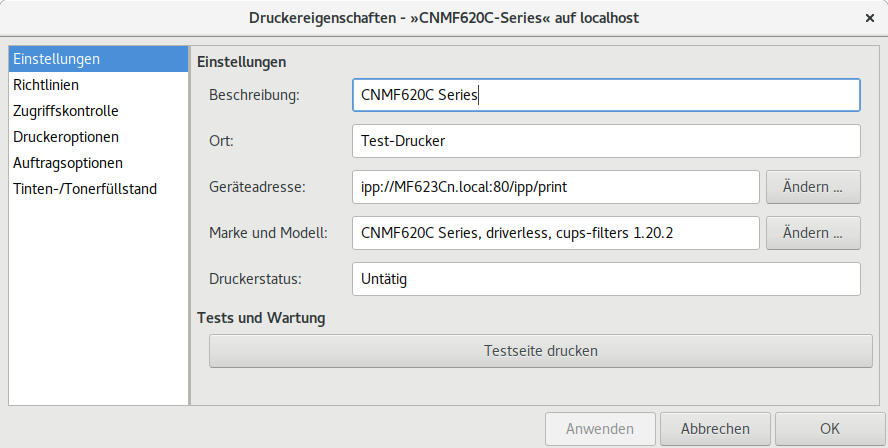
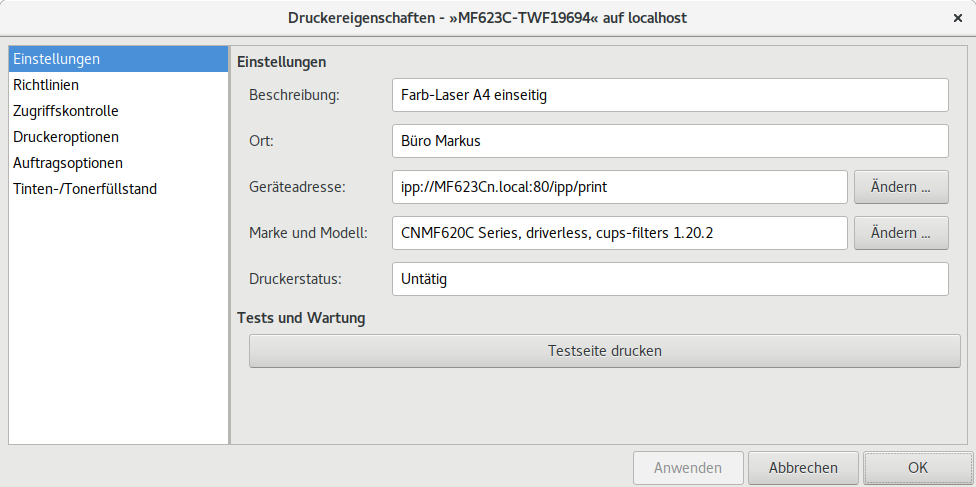
print: Korrektur gelesen (WIP)

Changed region(s): [[0.0, 0.0, 1.0, 0.9062], [0.6081, 0.875, 1.0, 1.0], [0.0, 0.875, 0.0304, 0.9062]]

diff --git a/docs/print/printer_setup.rst b/docs/print/printer_setup.rst
@@ -8,32 +8,34 @@
 Netzwerk-Drucker Setup
 ======================
 
-Im GNOME-Setup unter :guilabel:`Geräte/Drucker` kann man den Drucker einrichten,
-i.d.R. wird der Drucker im Netz gefunden, i.d.R: wählt GNOME (resp CUPS) die
-**driverless** PPA, bei mir (Ubuntu 18.04 und MF623Cn Drucker) war das:
+In den GNOME :guilabel:`Einstellungen` unter :guilabel:`Geräte/Drucker` kann man
+den Drucker einrichten.  IPP fähige Drucker werden automatisch im Netz gefunden
+und i.d.R: wählt GNOME (resp CUPS) eine **driverless** PPA (siehe Kapitel
+":ref:`driverless-printing`").
 
-- :origin:`CNMF620C Series, driverless, cups-filters <docs/print_scan/CNMF620C-Series.ppd>`
+.. _figure-GNOME-Setup-printer:
 
-Über den Button :guilabel:`Zusätzliche Druckereinstellungen` kann man bestehende
-Setups ändern oder weitere Setups einrichten.  Die GUI
-:ref:`system-config-printer <figure-cups-system-config-printer-gui>` ist die
-Druckerverwaltung des CUPS.  Alternativ kann diese auch im WEB Browser unter
-http://localhost:631/printers über HTML Formulare vorgenommen werden.  Über die
-(HTML) GUI können nur bestimmte Benutzer die Drucker verwalten. Nur die, die zur
-Gruppe lpadmin gehören::
+.. figure:: GNOME-Setup-printer.png
+   :alt:    Figure (GNOME-Setup-printer.png)
 
-   $ members lpadmin
-   cups-pk-helper <benutzername> <benutzername> ...
+   GNOME Einstellungen :guilabel:`Geräte/Drucker`
 
-Die GNOME GUI's nutzen zum Teil den Benutzer ``cups-pk-helper`` aus dem
-gleichnamigen APT-Paket, allerdings auch nicht immer, weshalb man sich selbst am
-besten noch zu der Gruppe ``lpadmin`` hinzufügt::
+Man kann mal einen Druck über diesen *automatisch* eingerichteten Drucker
+probieren, wenn man mit dem Ergebnis zufrieden ist, dann braucht man auch nichts
+weiter zu machen.  Hier im Beispiel mit einem Canon (MF623Cn_) klappt das aber
+leider nicht, deutlich zu erkennen an der Meldung :guilabel:`Es werden keine
+Aufträge angenommen`.  Die Ursachen dafür können mehrschichtig sein, Canon ist
+das beste (negativ) Beispiel, z.T. wurde das ja auch schon erläutert (:ref:`REF
+<cupstestppd>`, :ref:`REF <driverless-vs-canon>`).  Es macht also unter
+Umständen unumgänglich den Drucker manuell hinzuzufügen.
 
-  $ sudo gpasswd -a <benutzername> lpadmin
 
-Auch wenn es immer eine HTML-GUI gibt, am übersichtlichsten ist die GNOME GUI
-(siehe :ref:`figure-cups-system-config-printer` &
-:ref:`figure-cups-system-config-printer-gui`).
+Drucker manuell hinzufügen
+==========================
+
+Über den Button :guilabel:`Zusätzliche Druckereinstellungen` gelangt man in den
+unten zu sehenden Dialog, das CUPS-Setup über die GNOME GUI
+(:ref:`system-config-printer <figure-cups-system-config-printer-gui>`).
 
 .. _figure-cups-system-config-printer:
 
@@ -41,6 +43,27 @@ Auch wenn es immer eine HTML-GUI gibt, am übersichtlichsten ist die GNOME GUI
    :alt:    Figure (system-config-printer.png)
 
    ``system-config-printer``: CUPS Drucker-Setup auf dem ``localhost``
+
+Alternativ kann das CUPS-Setup auch im WEB Browser unter
+http://localhost:631/printers über HTML Formulare vorgenommen werden.  Auch wenn
+es immer eine HTML-GUI gibt (z.B. auf Servern die keinen Desktop haben), am
+komfortabelsten ist es immer noch die GNOME GUI auf dem Desktop zu nutzen.
+
+Wie bereits erwähnt, läuft der CUPS Dienst nicht im Kontext des Benutzers
+sondern als eigenständiger Dienst auf dem Server.  Damit nicht einfach jeder
+beliebige Benutzer da was *verstellen* kann, gibt es Berechtigungen.  Die GNOME
+GUI's nutzen zum Teil das PolicyKit `cups-pk-helper`_ aus dem gleichnamigen
+APT-Paket, allerdings stehen darüber auch nicht immer alle Berechtigungen zur
+Verfügung.  Nur Benutzer die zur Gruppe ``lpadmin`` (Drucker-Admins) gehören,
+können auch alle Einstellungen vornehmen::
+
+   $ members lpadmin
+   cups-pk-helper <benutzername> <benutzername> ...
+
+Weshalb man sich am besten noch zu der Gruppe Drucker-Admins (``lpadmin``)
+hinzufügt::
+
+  $ sudo gpasswd -a <benutzername> lpadmin
 
 Über :menuselection:`Hinzufügen --> Netzwerkdrucker` den Drucker suchen lassen
 und dann als Verbindung ``ipp/print`` auswählen (sicherstellen, dass oben die
@@ -52,10 +75,10 @@ Geräteadresse mit ``ipp://`` beginnt).
 
 .. note::
 
-   Hier noch Verweise zu den anderen ggf. zur Verfügung stehenden Protokollen:
-   `DNS-SD aka AirPrint aka Bonjour
-   <https://wiki.debian.org/PrintingGlossaryandIndex#dnssd>`_ & `AppSocket
-   Protocol (aka JetDirect) <https://www.cups.org/doc/network.html#SOCKET>`_
+   Der Vollständigkeit wegen noch Verweise zu den anderen ggf. zur Verfügung
+   stehenden Protokolle: `DNS-SD aka AirPrint aka Bonjour
+   <https://wiki.debian.org/PrintingGlossaryandIndex#dnssd>`_ und
+   `AppSocket Protocol (aka JetDirect) <https://www.cups.org/doc/network.html#SOCKET>`_
 
 Nun muss man einen eindeutigen Druckernamen vergeben, diesen wird man später
 nicht mehr ändern können.  Ich verwende hierfür die genaue Typ-Bezeichnung plus
@@ -70,13 +93,45 @@ Ort                 *Büro Markus*
 
 Danach kann man auf :guilabel:`Vorwärts` drücken, dann kommt ein Dialog
 :guilabel:`Treiber wird gesucht`, das kann einen Moment dauern.  Danach wird man
-gefragt, ob man eine Test-Seite drucken möchte.  Das würde auch funktionieren,
-aber den Dialog bricht man dennoch erst mal ab und schaut sich die
-:ref:`Drucker-Eigenschaften <figure-cups-system-config-printer-props>` des
-soeben eingerichteten Druckers an.  Die :menuselection:`Eigenschaften` wählt man
-im Kontextmenü (rechte Maustaste) des Druckers, den man in der :ref:`GUI
-<figure-cups-system-config-printer-gui>` auswählt.
+gefragt, ob man eine Test-Seite drucken möchte.  Das kann man ausprobieren, wenn
+das Druck-Erzeugnis gut genug ist, ist man mit dem Einrichten des *driverless*
+Treiber eigentlich schon fertig.  Aber bereits oben wurde erwähnt, dass wir
+diese manuelle Installation vornehmen um weitere Anpassungen vorzunehmen.
 
+Bei den Canon Druckern der MF620 Serie musste die PPD Datei für den *driverless*
+angepasst werden.  Ein anständiges Druckbild ergab sich am Ende mit folgender
+PPD Datei (s.a. Kapitel ":ref:`driverless-printing`"):
+
+- ``CNMF620C-Series.ppd``: :origin:`CNMF620C Series, driverless (PPD modified)
+  <docs/print_scan/CNMF620C-Series.ppd>`
+
+
+Drucker Treiber ändern
+======================
+
+In CUPS wird das Setup eines Druckers in einer :ref:`PPD Datei <ppd_spec>`
+hinterlegt, in dieser Datei steht dann auch drin, welcher Druckertreiber
+verwendet wird.  Im Fall des *driverless* Treiber steht da `drvless.ppd
+<https://github.com/OpenPrinting/cups-filters/blob/bcf4377b/cupsfilters/ppdgenerator.c#L1274>`_::
+
+  *PCFileName: "drvless.ppd"
+
+Hat man den **proprietären** Treiber :ref:`canon_urf` im System installiert, so
+kann man den jetzt auch für diesen Drucker nutzen.  Der Druckertreiber für die
+MF620C Serie ist::
+
+  *PCFileName: "CNM620CZK.PPD"
+
+Theoretisch könnte man den Treiber einfach in die bestehende PPD-Datei zum
+Drucker Setup eintragen (den CUPS Dienst neu starten) und dann würde der aktiv
+sein.  Jedoch haben die proprietären Treiber meist eigene Optionen und
+Einstellungen zu den CUPS-Filtern, die man auch übernehmen muss.  Man muss die
+PPD Datei vom Hersteller installieren.  Um also Treiber und PPD richtig
+einzurichten wählt man im Kontextmenü (rechte Maustaste) des Druckers die
+:menuselection:`Eigenschaften` aus.  Unter :guilabel:`Marke und Model` ist hier
+im Beispiel zu sehen::
+
+   CNMF620C Series, driverless, cups-filters 1.20.2
 .. _figure-cups-system-config-printer-props:
 
 .. figure:: system-config-printer-props.png
@@ -84,37 +139,48 @@ im Kontextmenü (rechte Maustaste) des Druckers, den man in der :ref:`GUI
 
    ``system-config-printer``: Drucker-Eigenschaften
 
-Hat man den **proprietären** Treiber :ref:`canon_urf` im System installiert, so
-kann man den jetzt auch für diesen Drucker nutzen.  Unter *Marke und Model* ist
-bei mir z.B. zu sehen::
-
-   CNMF620C Series, driverless, cups-filters 1.20.2
-
 Über den :guilabel:`Ändern` Button erscheint dann der :guilabel:`Treiber ändern`
-Dialog, da mal eben kurz warten, dann wird eine Auswahl angeboten:
+Dialog, da mal eben kurz warten, dann wird eine Auswahl angeboten.
+
+.. _figure-cups-system-config-driver-model:
 
 .. figure:: system-config-driver-model.png
+   :alt:    Figure (system-config-driver-model.png)
+
+   Treiber ändern (1): Drucker-Hersteller aus Datenbank auswählen
 
 Dann den **proprietären** Treiber :ref:`canon_urf` auswählen.
 
-.. figure:: system-config-driver-type.png
+.. _figure-cups-system-config-driver-type:
 
-Da man den **proprietären** Treiber einrichtet, sollte man auch dessen `PPD
-(wiki)`_ Datei (erst mal) unverändert übernehmen.
+.. figure:: system-config-driver-type.png
+   :alt:    Figure (system-config-driver-type.png)
+
+   Treiber ändern (2): Drucker-Modell aus Datenbank auswählen
+
+Da man den **proprietären** Treiber einrichtet, sollte man auch dessen PPD-Datei
+(erst mal) unverändert übernehmen.
+
+.. _figure-cups-system-config-ppd-settings:
 
 .. figure:: system-config-ppd-settings.png
+   :alt:    Figure (system-config-ppd-settings.png)
+
+   Treiber ändern (3): PPD Datei des Herstellers übernehmen
 
 .. hint::
 
-   Bei den Canon Installationen klappt das evtl. nicht immer mit der PPD, das
-   ist daran zu erkennen, dass nach obigen Vorgehen bei :guilabel:`Marke und
-   Modell` immer noch :menuselection:`CNMF620C Series, driverless, cups-filters
-   1.20.2` (also **driverless**) steht.
+   Bei den Canon Installationen klappt das evtl. nicht immer mit der übernahme
+   der PPD-Datei des Herstellers, das ist daran zu erkennen, dass nach obigen
+   Vorgehen bei :guilabel:`Marke und Modell` immer noch :menuselection:`CNMF620C
+   Series, driverless, cups-filters 1.20.2` (also **driverless**) steht.
 
 In solchen Fällen hat man noch die Möglichkeit, die PPD direkt zuzuweisen.  Das
-geht über das GNOME Setup (wieder unter :menuselection:`Geräte`), dort klickt
-man auf das :menuselection:`Zahnrad / Drucker-Details` und dann erscheint der
-Dialog.
+geht auch schon über das :ref:`figure-GNOME-Setup-printer`, dort klickt man auf
+das :guilabel:`Zahnrad / Drucker-Details` und dann erscheint der Dialog
+(:ref:`figure-cups-system-config-install-PPD`).  In dem Dialog kann man auch
+überprüfen welcher Treiber verwendet wird.
+
 
 .. _figure-cups-system-config-install-PPD:
 
@@ -123,27 +189,50 @@ Dialog.
 
    Setup: Details Drucker
 
-Hier im exemplarischen Dialog :ref:`figure-cups-system-config-install-PPD` ist
-bereits der URF-II Treiber korrekt eingestellt.  Der Treiber wird in der PPD
-gesetzt, diese kann individuell über den Button :guilabel:`PPD-Datei
-installieren ...` ausgewählt werden.  Bei der Installation des **proprietären**
-Treiber :ref:`canon_urf` wurde die PPD Datei für die *MF620C-Series* unter dem
-Pfad::
+Hier im Beispiel ist der **proprietäre** Treiber :guilabel:`Canon MF620C Series
+UFRII LT` gesetzt, jetzt muss aber noch die richtige PPD zum Treiber über den
+Button :guilabel:`PPD-Datei installieren ...` ausgewählt werden.  Bei der
+Installation des **proprietären** Treiber :ref:`canon_urf` wurde die PPD Datei
+für die *MF620C-Series* unter dem Pfad::
 
   /usr/share/cups/model/CNCUPSMF620CZK.ppd
 
 installiert.  In dem Ordner liegen auch noch ein Haufen anderer PPD Dateien, die
-alle aus dem Canon Paket ``cndrvcups-ufr2-uk_{3.70}-1_amd64.deb`` stammen (mit
-dem Paket deckt all Canon alle seine URF Modelle ab).  Die Dateinamen setzen
-sich zusammen aus::
+alle aus dem Canon Paket ``cndrvcups-ufr2-uk_{3.70}-1_amd64.deb`` stammen.
+I.d.R. bieten die Hersteller (wenn überhaupt) nur ein Paket mit Treibern zu
+allen ihren Modellen an.  Die Dateinamen setzen sich zusammen aus::
 
   CNCUPSMF620CZK.ppd
   -|    -----|
    |         +--> MF620C: Modell
    +--> CN: Canon
 
-Wenn man die richtige PPD Datei ausgewählt hat, dann steht im Dialog
-:ref:`figure-cups-system-config-install-PPD` bei der Angabe zum Modell irgendwas
-mit ``Canon MF620C UFRII LT``.  Falls sich dennoch Fragen ergeben, am besten
-hier schauen: `Canon UFR-II`_.
+Wenn man die richtige PPD Datei ausgewählt hat, dann kann man das schon in den
+GNOME Einstellungen erkennen, dort steht bei :guilabel:`Modell` Canon MF620C
+UFRII LT.
+
+.. _figure-GNOME-Setup-URFII:
+
+.. figure:: GNOME-Setup-URFII.png
+   :alt:    Figure (GNOME-Setup-URFII.png)
+
+   GNOME Einstellungen: Modell Canon MF620C UFRII LT
+
+Damit ist das Setup dann abgeschlossen und es kann gedruckt werden.  Wie schon
+beim *driverless* Treiber, so empfiehlt es sich auch bei *proprietären* Treibern
+die PPD mal anzuschauen.  Hier meine angepasste Version für die Canon MF620C
+Serie:
+
+- ``MF623C-TWF19694.ppd``: :origin:`Canon MF620C Series UFRII LT
+  <docs/print_scan/MF623C-TWF19694.ppd>`
+
+Falls sich noch Fragen ergeben kann man auch nochmal den Artikel im Debian Wiki
+lesen: `Canon UFR-II`_.
+
+
+
+
+
+
+
 
